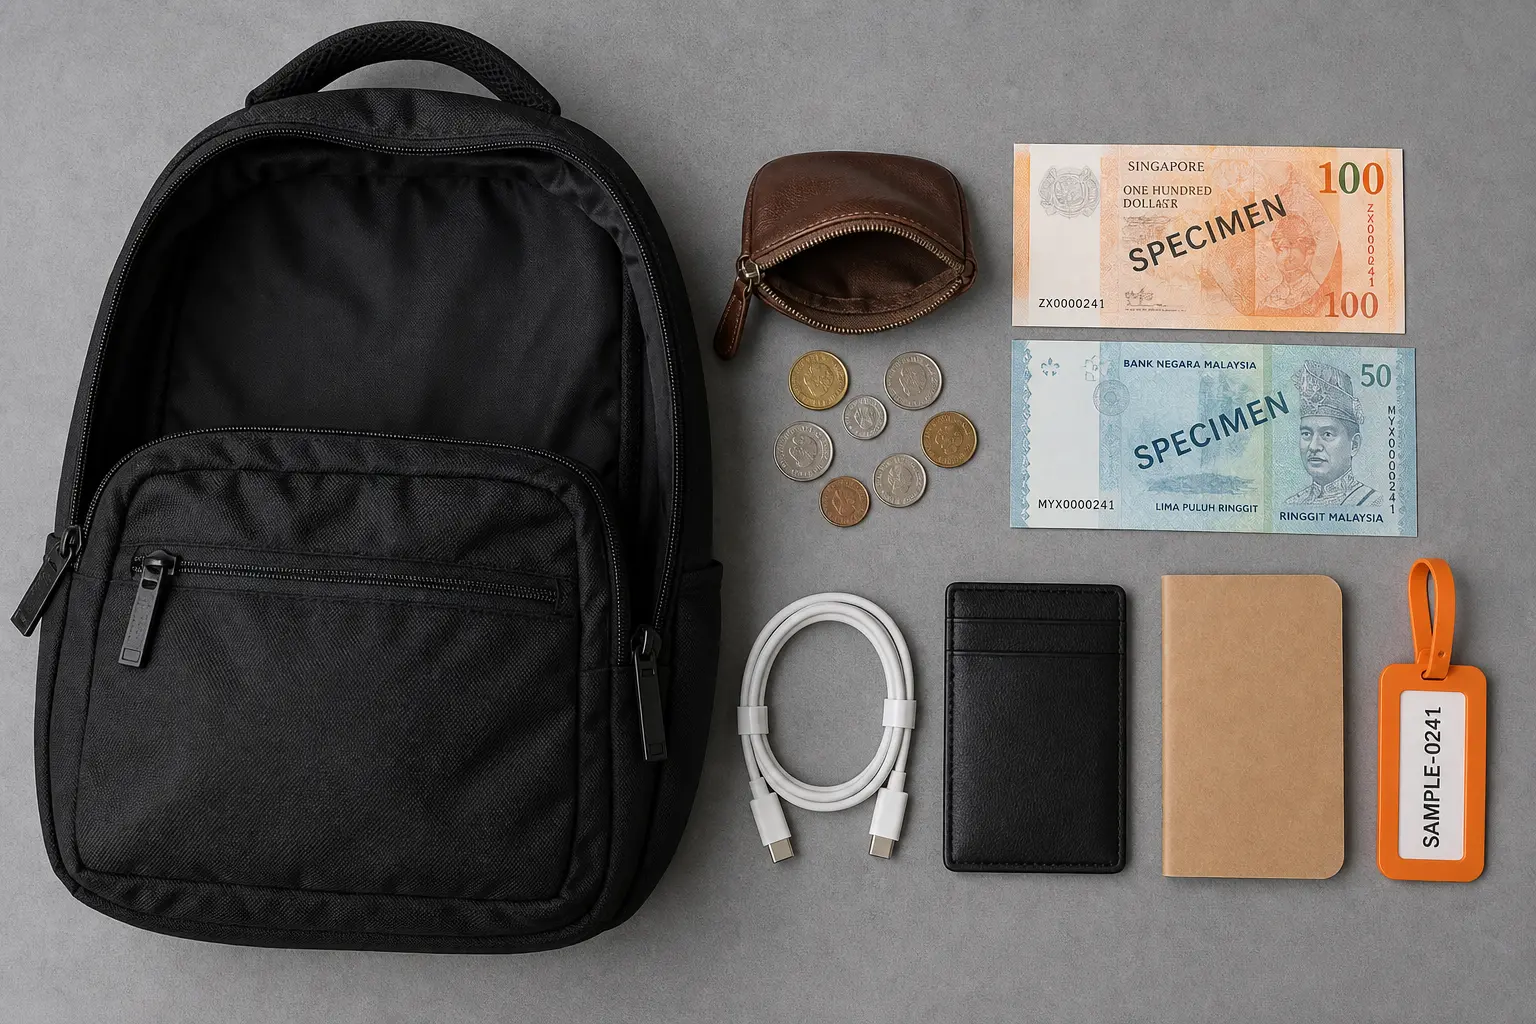
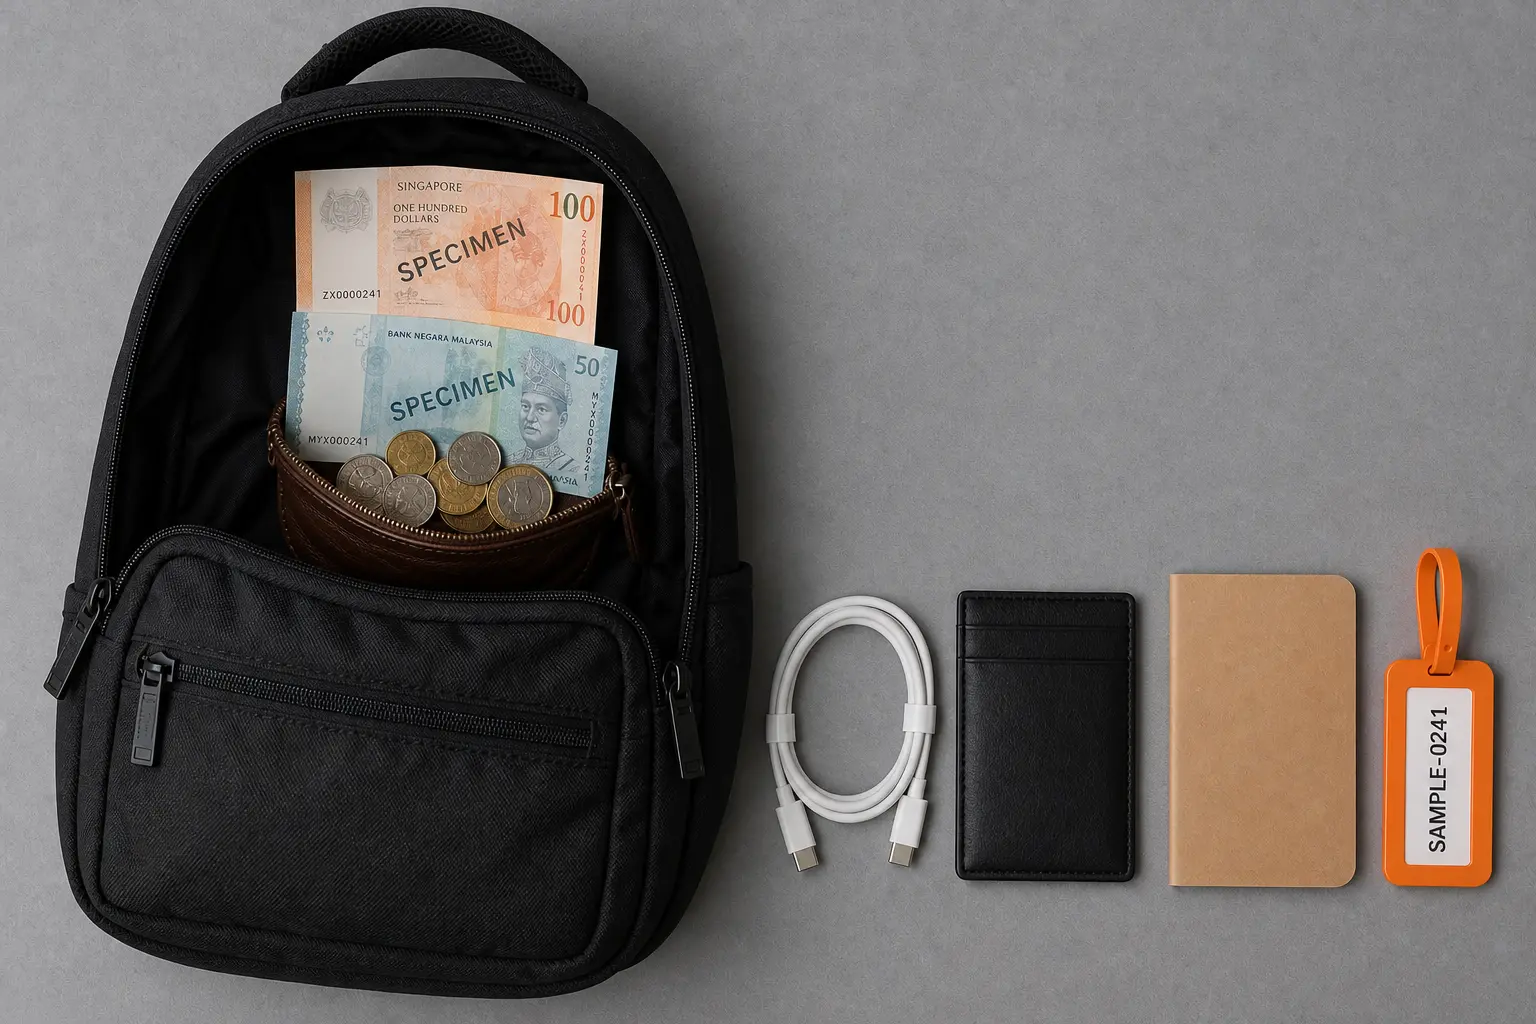
fix: harden manifest reruns and review safety

diff --git a/src/app/cases/[id]/CaseDetailClient.tsx b/src/app/cases/[id]/CaseDetailClient.tsx
@@ -250,6 +250,23 @@ export default function CaseDetailClient({ initialCase, currentUser }: CaseDetai
     }
   }, []);
 
+  useEffect(() => {
+    if (!editingItem && !isAddingItem) return;
+    const previousOverflow = document.body.style.overflow;
+    document.body.style.overflow = "hidden";
+    const closeOnEscape = (event: KeyboardEvent) => {
+      if (event.key === "Escape") {
+        setEditingItem(null);
+        setIsAddingItem(false);
+      }
+    };
+    window.addEventListener("keydown", closeOnEscape);
+    return () => {
+      document.body.style.overflow = previousOverflow;
+      window.removeEventListener("keydown", closeOnEscape);
+    };
+  }, [editingItem, isAddingItem]);
+
   function startListening() {
     if (isFinalised) return;
     if (recognitionRef.current) {
@@ -416,14 +433,16 @@ export default function CaseDetailClient({ initialCase, currentUser }: CaseDetai
 
   // Build the indented tree structure
   function getIndentDepth(item: ManifestItem): number {
-    if (item.parentId === null) return 0;
-    if (item.parentId === "outer-item-root") return 1;
+    let depth = 0;
+    let current: ManifestItem | undefined = item;
+    const visited = new Set<string>();
 
-    // Check if parent's parent is null
-    const parent = caseFile.manifest.find(i => i.id === item.parentId);
-    if (!parent) return 1;
-    if (parent.parentId === null) return 1;
-    return 2; // Maximum depth 2 for pouch-level content (bag -> pouch -> content)
+    while (current?.parentId && !visited.has(current.id)) {
+      visited.add(current.id);
+      depth += 1;
+      current = caseFile.manifest.find((candidate) => candidate.id === current?.parentId);
+    }
+    return depth;
   }
 
   // Sort manifest items to keep children adjacent to parents
@@ -637,12 +656,12 @@ export default function CaseDetailClient({ initialCase, currentUser }: CaseDetai
 
           {/* Notifications */}
           {errorMsg && (
-            <div style={{ background: "#fdf2f2", border: "1px solid #fbd5d5", color: "#c81e1e", borderRadius: "8px", padding: "12px", fontSize: "0.85rem" }}>
+            <div role="alert" style={{ background: "#fdf2f2", border: "1px solid #fbd5d5", color: "#c81e1e", borderRadius: "8px", padding: "12px", fontSize: "0.85rem" }}>
               ⚠ {errorMsg}
             </div>
           )}
           {successMsg && (
-            <div style={{ background: "#f3faf5", border: "1px solid #def7ec", color: "var(--green)", borderRadius: "8px", padding: "12px", fontSize: "0.85rem" }}>
+            <div role="status" aria-live="polite" style={{ background: "#f3faf5", border: "1px solid #def7ec", color: "var(--green)", borderRadius: "8px", padding: "12px", fontSize: "0.85rem" }}>
               ✅ {successMsg}
             </div>
           )}
@@ -836,6 +855,8 @@ export default function CaseDetailClient({ initialCase, currentUser }: CaseDetai
                     {!isFinalised && (
                       <>
                         <button
+                          type="button"
+                          aria-label={`Edit ${item.label}`}
                           onClick={() => setEditingItem(item)}
                           style={{ background: "transparent", border: "none", cursor: "pointer", fontSize: "0.85rem" }}
                           title="Edit Item"
@@ -844,6 +865,8 @@ export default function CaseDetailClient({ initialCase, currentUser }: CaseDetai
                         </button>
                         {item.id !== "outer-item-root" && (
                           <button
+                            type="button"
+                            aria-label={`Delete ${item.label}`}
                             onClick={() => { void deleteItemDirect(item.id); }}
                             style={{ background: "transparent", border: "none", cursor: "pointer", fontSize: "0.85rem" }}
                             title="Delete Item"
@@ -945,33 +968,38 @@ export default function CaseDetailClient({ initialCase, currentUser }: CaseDetai
 
       {/* MODAL 1: Edit Item Form Overlay */}
       {editingItem && (
-        <div style={{
+        <div className="modal-backdrop" style={{
           position: "fixed",
-          top: 0,
-          left: 0,
-          width: "100%",
-          height: "100%",
+          inset: 0,
           background: "rgba(0,0,0,0.4)",
           display: "flex",
           alignItems: "center",
           justifyContent: "center",
           zIndex: 1000
         }}>
-          <div style={{
-            background: "var(--panel)",
-            border: "1px solid var(--line)",
-            borderRadius: "12px",
-            padding: "24px",
-            width: "100%",
-            maxWidth: "480px",
-            boxShadow: "0 20px 40px rgba(0,0,0,0.15)"
-          }}>
-            <h3 style={{ fontSize: "1.25rem", margin: "0 0 16px" }}>✏ Edit Manifest Record</h3>
+          <div
+            className="modal-panel"
+            role="dialog"
+            aria-modal="true"
+            aria-labelledby="edit-item-title"
+            style={{
+              background: "var(--panel)",
+              border: "1px solid var(--line)",
+              borderRadius: "12px",
+              padding: "24px",
+              width: "100%",
+              maxWidth: "480px",
+              boxShadow: "0 8px 16px rgba(0,0,0,0.15)"
+            }}
+          >
+            <h3 id="edit-item-title" style={{ fontSize: "1.25rem", margin: "0 0 16px" }}>Edit Manifest Record</h3>
             <form onSubmit={(e) => { void submitEditItem(e); }} style={{ display: "grid", gap: "16px" }}>
               <div style={{ display: "grid", gap: "4px" }}>
                 <label style={{ fontSize: "0.75rem", fontWeight: 700 }}>Item Label</label>
                 <input
                   type="text"
+                  aria-label="Item Label"
+                  autoFocus
                   value={editingItem.label}
                   onChange={(e) => setEditingItem({ ...editingItem, label: e.target.value })}
                   required
@@ -1148,7 +1176,7 @@ export default function CaseDetailClient({ initialCase, currentUser }: CaseDetai
 
       {/* MODAL 2: Add Manual Item Overlay */}
       {isAddingItem && (
-        <div style={{
+        <div className="modal-backdrop" style={{
           position: "fixed",
           top: 0,
           left: 0,
@@ -1160,21 +1188,28 @@ export default function CaseDetailClient({ initialCase, currentUser }: CaseDetai
           justifyContent: "center",
           zIndex: 1000
         }}>
-          <div style={{
-            background: "var(--panel)",
-            border: "1px solid var(--line)",
-            borderRadius: "12px",
-            padding: "24px",
-            width: "100%",
-            maxWidth: "480px",
-            boxShadow: "0 20px 40px rgba(0,0,0,0.15)"
-          }}>
-            <h3 style={{ fontSize: "1.25rem", margin: "0 0 16px" }}>➕ Add New Manifest Record</h3>
+          <div
+            className="modal-panel"
+            role="dialog"
+            aria-modal="true"
+            aria-labelledby="add-item-title"
+            style={{
+              background: "var(--panel)",
+              border: "1px solid var(--line)",
+              borderRadius: "12px",
+              padding: "24px",
+              width: "100%",
+              maxWidth: "480px",
+              boxShadow: "0 8px 16px rgba(0,0,0,0.15)"
+            }}>
+            <h3 id="add-item-title" style={{ fontSize: "1.25rem", margin: "0 0 16px" }}>Add New Manifest Record</h3>
             <form onSubmit={(e) => { void submitAddItem(e); }} style={{ display: "grid", gap: "16px" }}>
               <div style={{ display: "grid", gap: "4px" }}>
                 <label style={{ fontSize: "0.75rem", fontWeight: 700 }}>Item Label</label>
                 <input
                   type="text"
+                  aria-label="Item Label"
+                  autoFocus
                   placeholder="e.g. Leather wallet, Gold Ring"
                   value={newItemData.label}
                   onChange={(e) => setNewItemData({ ...newItemData, label: e.target.value })}

diff --git a/src/app/cases/actions.ts b/src/app/cases/actions.ts
@@ -301,6 +301,13 @@ Respond strictly in the requested structured schema.`
       let reviewReason = item.reviewReason;
       let status = item.status;
 
+      if (item.parentId && !idMap[item.parentId]) {
+        status = "review";
+        reviewReason = reviewReason
+          ? `${reviewReason}; Unknown parent container resolved to the outer item`
+          : "Unknown parent container resolved to the outer item";
+      }
+
       // Validate every AI evidenceId against the actual uploaded IDs; reject/flag unsupported IDs
       if (!validUploadIds.has(item.evidenceId)) {
         evidenceId = "unsupported-evidence-id";
@@ -386,7 +393,12 @@ Respond strictly in the requested structured schema.`
       });
     }
 
-    caseFile.manifest = mergeAiDraftWithStaffItems(caseFile.manifest, mappedItems);
+    const mergedManifest = mergeAiDraftWithStaffItems(caseFile.manifest, mappedItems);
+    const validationError = validateManifestStructure({ ...caseFile, manifest: mergedManifest });
+    if (validationError) {
+      return { error: `AI draft rejected: ${validationError}` };
+    }
+    caseFile.manifest = mergedManifest;
 
     runInTransaction(() => {
       updateCase(caseId, caseFile);
@@ -398,7 +410,7 @@ Respond strictly in the requested structured schema.`
       );
     });
 
-    return { success: true, manifest: mappedItems };
+    return { success: true, manifest: mergedManifest };
   } catch (error: unknown) {
     console.error("AI Analysis failed:", error);
     const message = error instanceof Error ? error.message : "An unknown provider error occurred.";
@@ -462,6 +474,13 @@ export async function handleUpdateItem(caseId: string, updatedItem: ManifestItem
     });
 
     const originalItem = caseFile.manifest[itemIndex];
+    const becameSensitive =
+      !requiresSensitiveReview(originalItem.label, originalItem.ocrText, originalItem.visibleAttributes) &&
+      requiresSensitiveReview(parsed.label, parsed.ocrText, parsed.visibleAttributes);
+    if (becameSensitive) {
+      parsed.status = "review";
+      parsed.reviewReason = parsed.reviewReason || "Sensitive item details require staff confirmation";
+    }
 
     // Enforce root protections
     if (updatedItem.id === "outer-item-root") {
@@ -563,6 +582,11 @@ export async function handleAddItem(caseId: string, itemData: Omit<ManifestItem,
     // Ensure parent container exists in DB
     if (!caseFile.manifest.some((p) => p.id === parsed.parentId)) {
       return { error: `Parent container ID "${parsed.parentId}" does not exist.` };
+    }
+
+    if (requiresSensitiveReview(parsed.label, parsed.ocrText, parsed.visibleAttributes)) {
+      parsed.status = "review";
+      parsed.reviewReason = parsed.reviewReason || "Sensitive item details require staff confirmation";
     }
 
     // Cryptographically secure item ID generation

diff --git a/src/lib/db.ts b/src/lib/db.ts
@@ -490,7 +490,7 @@ export function seedDemoCase(): Case {
     const items = [
       { id: "outer-item-root", label: "Black backpack", parentId: null, quantity: 1, confidence: 1.0, status: "confirmed", reviewReason: null, ocrText: null, visibleAttributes: "Colour: black; condition: clean; main compartment open", source: "system" },
       { id: "pouch", label: "Brown coin pouch", parentId: "outer-item-root", quantity: 1, confidence: 0.98, status: "confirmed", reviewReason: null, ocrText: null, visibleAttributes: "Brown leather; zip closure; open", source: "system" },
-      { id: "coins", label: "Mixed coins", parentId: "pouch", quantity: 6, confidence: 0.86, status: "review", reviewReason: "Staff must verify the count and denominations.", ocrText: "", visibleAttributes: "Six metallic coins in mixed sizes and colours", source: "system" },
+      { id: "coins", label: "Mixed coins", parentId: "pouch", quantity: 7, confidence: 0.86, status: "review", reviewReason: "Staff must verify the count and denominations.", ocrText: "", visibleAttributes: "Seven metallic coins in mixed sizes and colours", source: "system" },
       { id: "sgd", label: "Singapore specimen note", parentId: "pouch", quantity: 1, confidence: 0.97, status: "review", reviewReason: "Currency requires staff confirmation before custody approval.", ocrText: "SPECIMEN · SINGAPORE · 100 · ZX0000241", visibleAttributes: "Orange specimen note", source: "system" },
       { id: "myr", label: "Malaysian specimen note", parentId: "pouch", quantity: 1, confidence: 0.96, status: "review", reviewReason: "Currency requires staff confirmation before custody approval.", ocrText: "SPECIMEN · BANK NEGARA MALAYSIA · 50 · MYX0000241", visibleAttributes: "Blue-green specimen note", source: "system" },
       { id: "cable", label: "White USB-C charging cable", parentId: "outer-item-root", quantity: 1, confidence: 0.99, status: "confirmed", reviewReason: null, ocrText: "", visibleAttributes: "White; coiled; USB-C connectors", source: "system" },

diff --git a/tests/domain.test.ts b/tests/domain.test.ts
@@ -263,6 +263,17 @@ test("Sensitive Item Review Policy", async (t) => {
     const merged = mergeAiDraftWithStaffItems([root, staff, staleAi], [root, freshAi, duplicateStaffLabel]);
     assert.deepStrictEqual(merged.map((item) => item.id), ["outer-item-root", "ai-new", "staff-1"]);
   });
+
+  await t.test("remaps fresh AI children to preserved staff-owned containers", () => {
+    const root: ManifestItem = { id: "outer-item-root", label: "Bag", parentId: null, quantity: 1, status: "confirmed", confidence: 1, reviewReason: null, evidenceId: "manual-creation", source: "system" };
+    const preservedPouch: ManifestItem = { id: "staff-pouch", label: "Brown pouch", parentId: "outer-item-root", quantity: 1, status: "confirmed", confidence: 1, reviewReason: null, evidenceId: "staff-added", source: "staff" };
+    const freshPouch: ManifestItem = { ...preservedPouch, id: "fresh-pouch", evidenceId: "evidence-1", source: "ai" };
+    const freshCoin: ManifestItem = { id: "fresh-coin", label: "Coin", parentId: "fresh-pouch", quantity: 1, status: "review", confidence: 0.8, reviewReason: "Verify denomination", evidenceId: "evidence-1", source: "ai" };
+
+    const merged = mergeAiDraftWithStaffItems([root, preservedPouch], [root, freshPouch, freshCoin]);
+    assert.deepStrictEqual(merged.map((item) => item.id), ["outer-item-root", "fresh-coin", "staff-pouch"]);
+    assert.strictEqual(merged.find((item) => item.id === "fresh-coin")?.parentId, "staff-pouch");
+  });
 });
 
 // Clean up test databases

diff --git a/src/lib/validation.ts b/src/lib/validation.ts
@@ -10,10 +10,24 @@ export function mergeAiDraftWithStaffItems(existing: ManifestItem[], draft: Mani
   const preservedStaffItems = existing.filter(
     (item) => item.id !== "outer-item-root" && (item.source ?? "staff") === "staff"
   );
-  const preservedLabels = new Set(preservedStaffItems.map((item) => item.label.trim().toLowerCase()));
-  const freshDraftItems = draft.filter(
-    (item) => item.id === "outer-item-root" || !preservedLabels.has(item.label.trim().toLowerCase())
+  const preservedByLabel = new Map(
+    preservedStaffItems.map((item) => [item.label.trim().toLowerCase(), item] as const)
   );
+  const replacementIds = new Map<string, string>();
+
+  for (const item of draft) {
+    if (item.id === "outer-item-root") continue;
+    const preserved = preservedByLabel.get(item.label.trim().toLowerCase());
+    if (preserved) replacementIds.set(item.id, preserved.id);
+  }
+
+  const freshDraftItems = draft
+    .filter((item) => item.id === "outer-item-root" || !replacementIds.has(item.id))
+    .map((item) => ({
+      ...item,
+      parentId: item.parentId ? (replacementIds.get(item.parentId) ?? item.parentId) : null,
+    }));
+
   return [...freshDraftItems, ...preservedStaffItems];
 }
 

diff --git a/src/app/globals.css b/src/app/globals.css
@@ -79,6 +79,8 @@ h2 { margin-bottom: 34px; font-size: clamp(2rem, 4vw, 3.5rem); line-height: 1; l
 .review-button { border: 1px solid #d4a34f; border-radius: 8px; background: #fff7e8; color: #744400; padding: 9px 12px; font-weight: 700; cursor: pointer; }
 .finalise-row { padding-top: 20px; }
 .finalise-row p { margin: 0; font-size: 0.85rem; }
+.modal-backdrop { box-sizing: border-box; padding: 20px; overflow-y: auto; }
+.modal-panel { box-sizing: border-box; max-height: calc(100dvh - 40px); overflow-y: auto; }
 
 @media (max-width: 820px) {
   .hero, .demo-layout { grid-template-columns: 1fr; }
